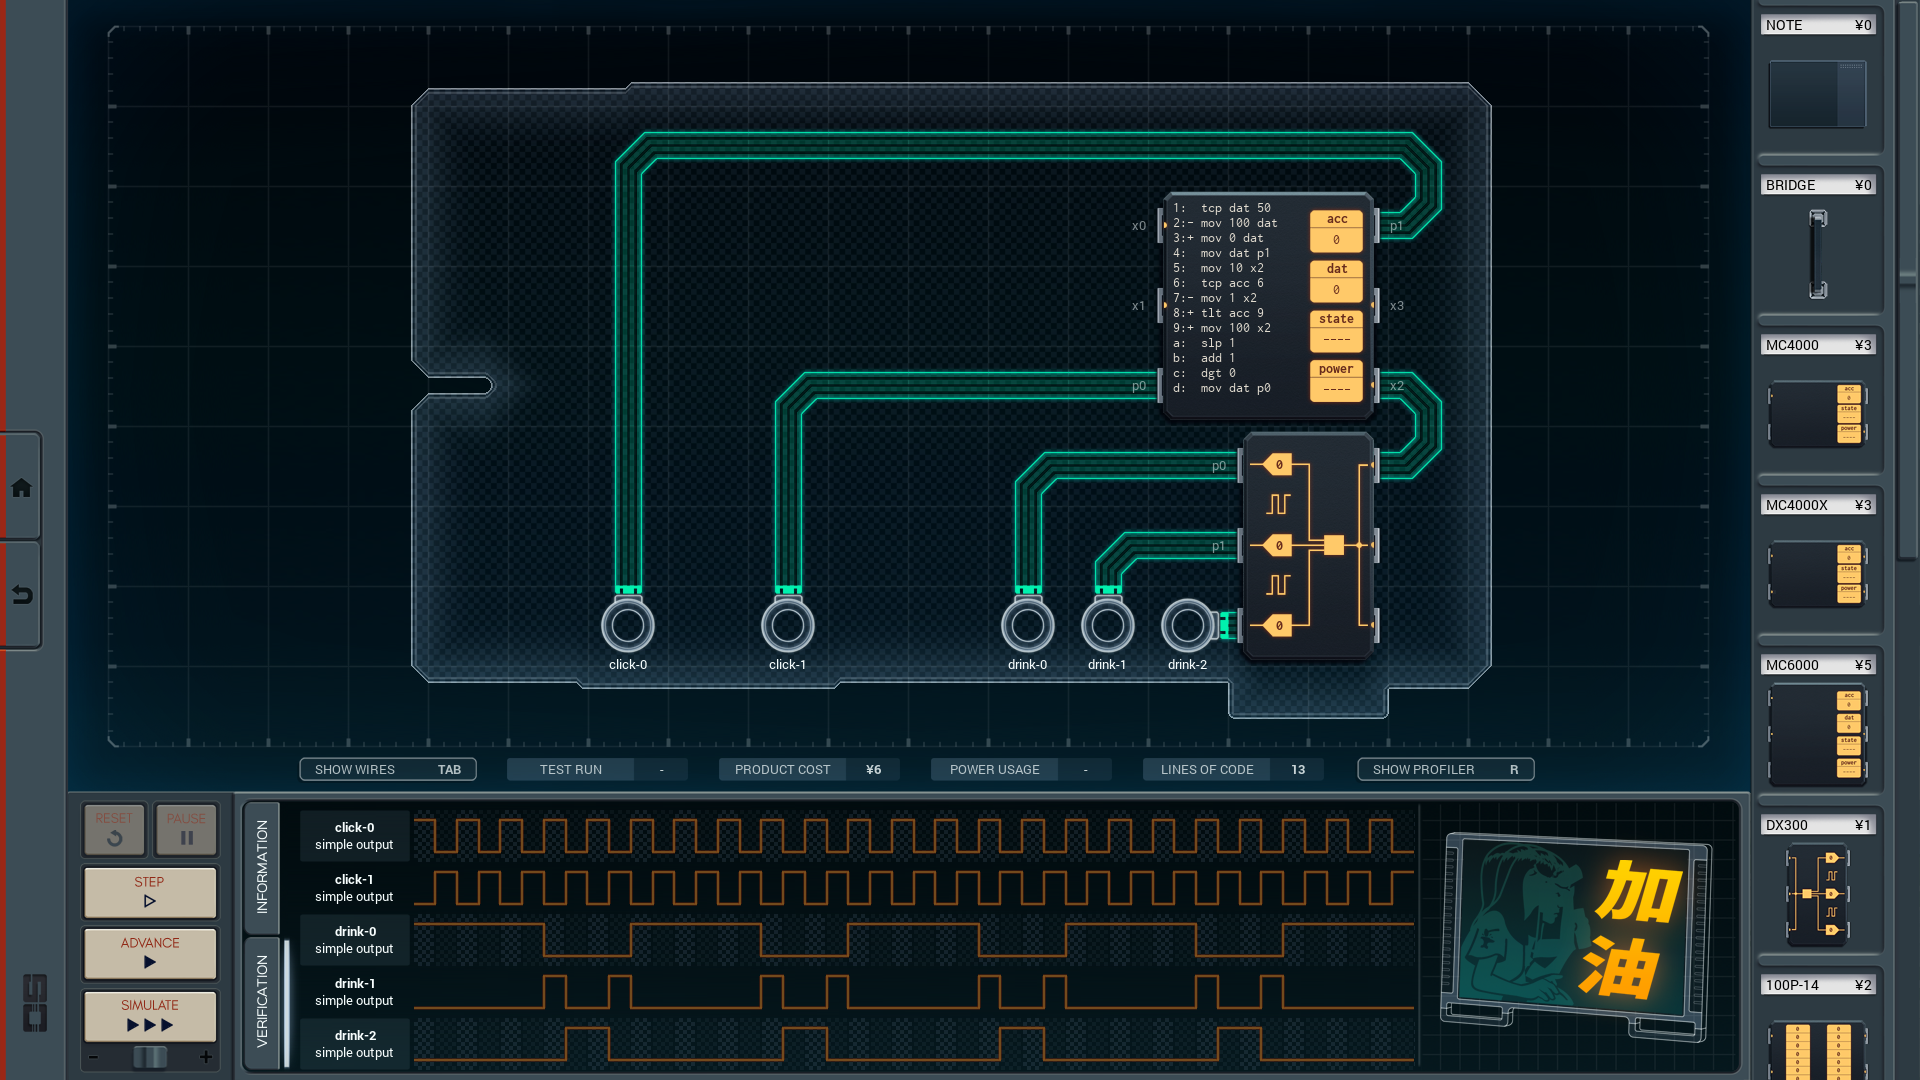
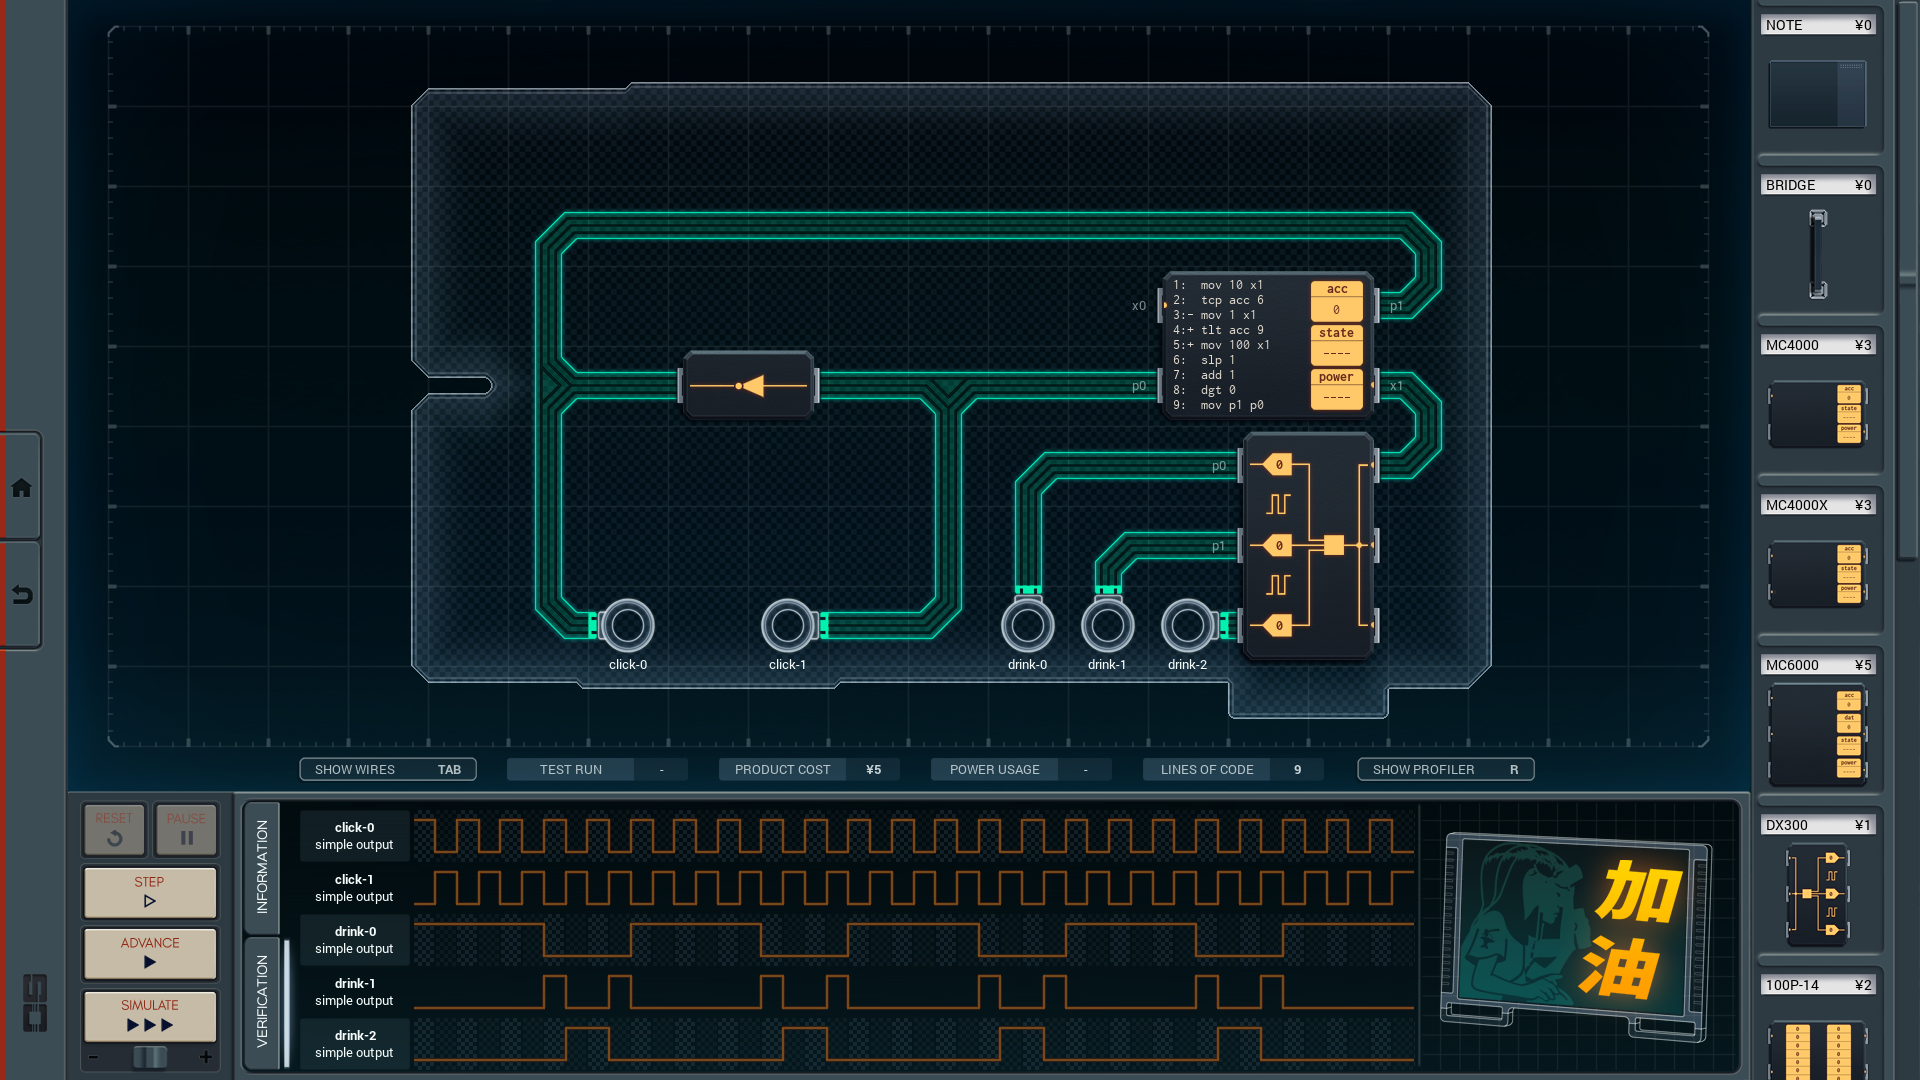
2023/09/07 Optimized the min cost solution for Animated Esports Sign [BEF] 6C / 461P / 13L [AFT] 5C / 323P / 9L

Changed region(s): [[0.25, 0.1222, 0.75, 0.6111]]

diff --git a/004-animated-esports-sign/README.md b/004-animated-esports-sign/README.md
@@ -1,4 +1,4 @@
-6/461/13 (MIN COST) SOLUTION
+5/323/9 (MIN COST) SOLUTION
 ----------------------------
 
 ![screenshot0](https://github.com/shiawasenahikari/Shenzhen-IO-Solutions/blob/master/004-animated-esports-sign/screenshot0.png)
